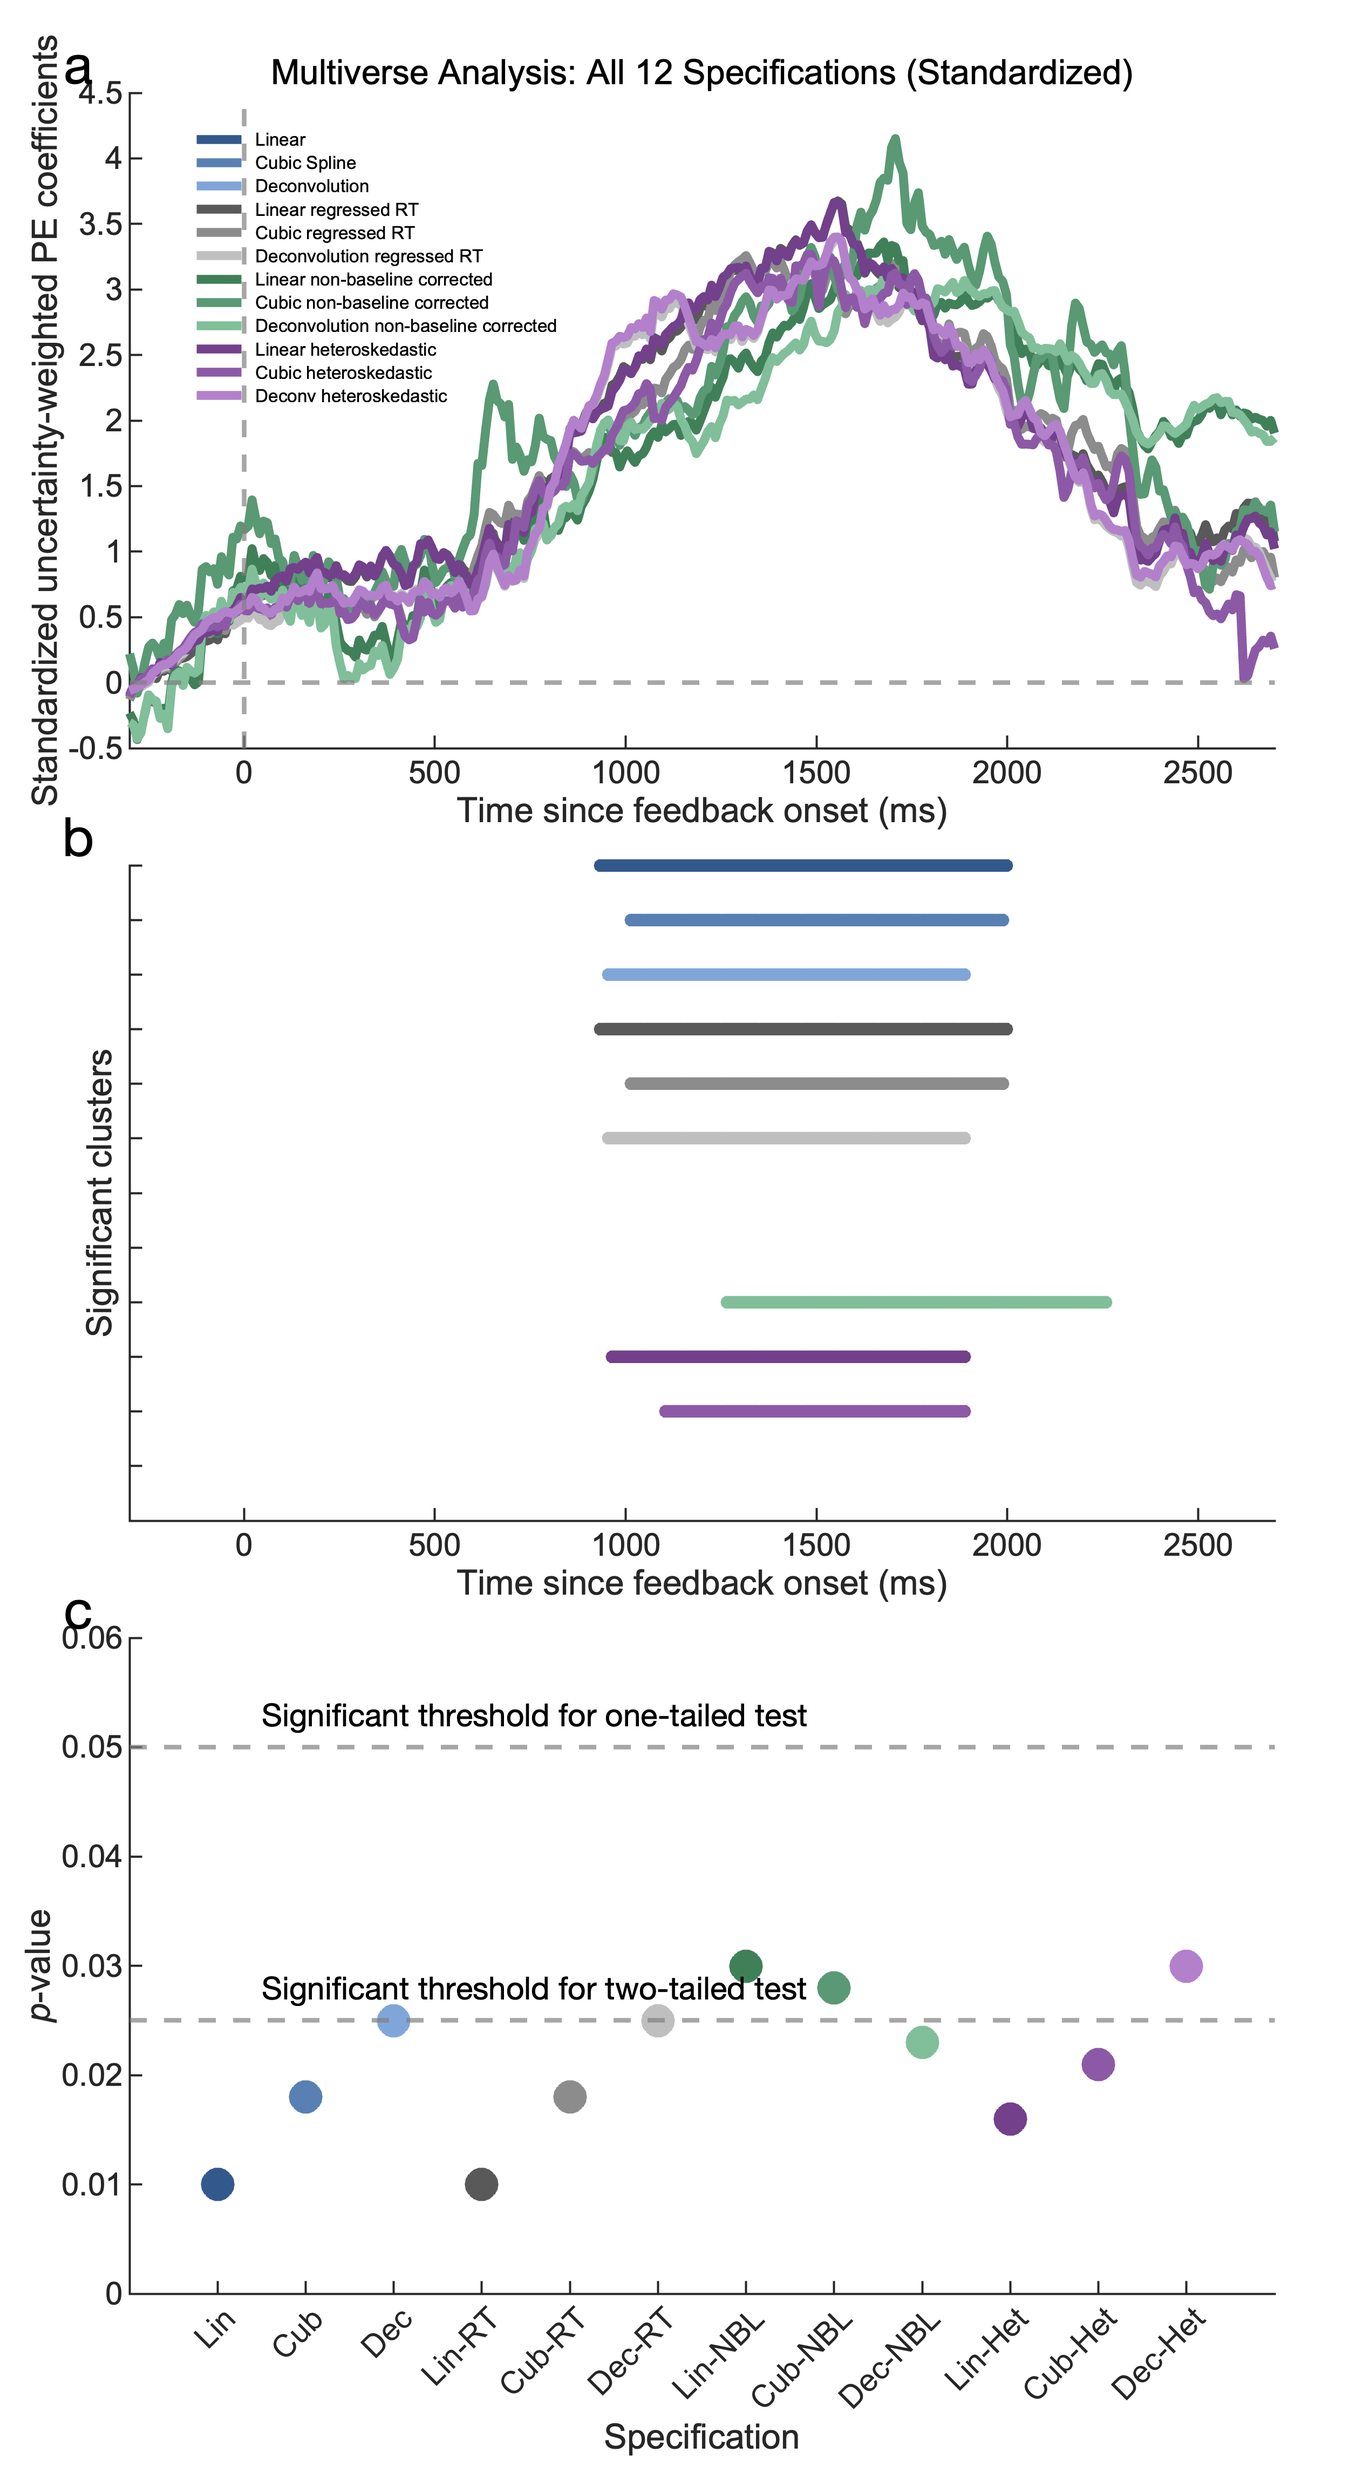
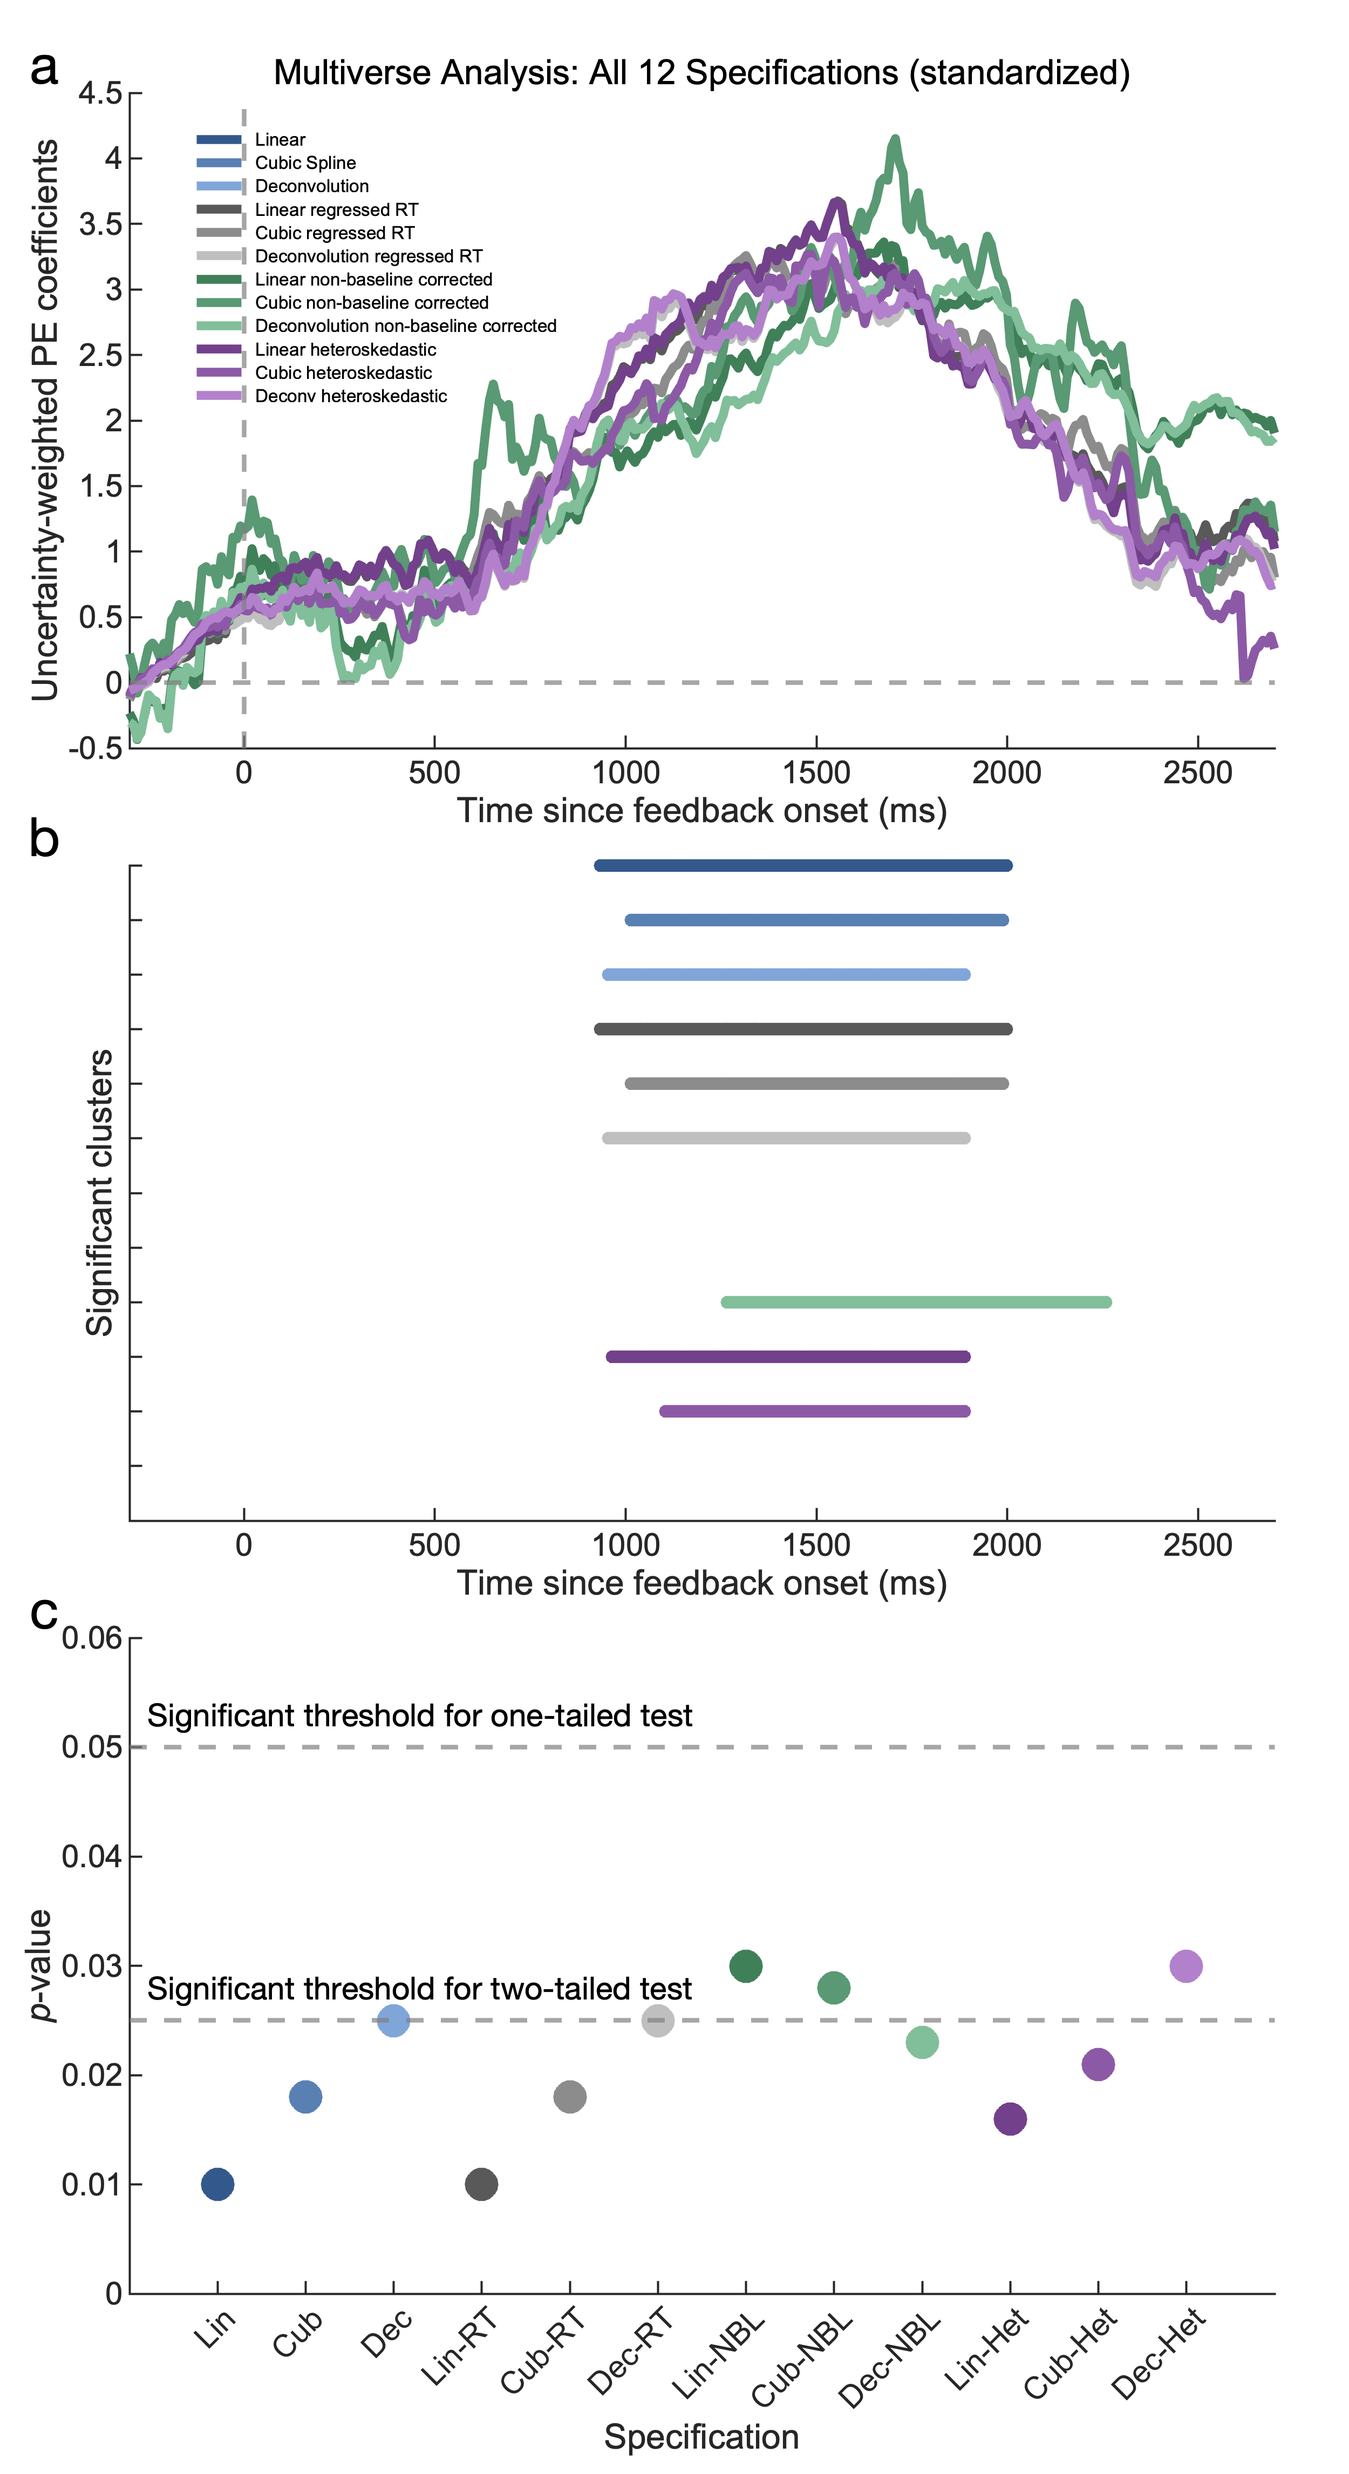
Cohens with chance level and stored all multiverse stats for checking

diff --git a/data/GB data two pipelines/pupil/stats/multiverseStats.m b/data/GB data two pipelines/pupil/stats/multiverseStats.m
@@ -1,0 +1,117 @@
+clc
+clearvars
+% USER-BASED PATH
+currentDir = cd;
+reqPath = 'Perceptual_unc_aug_task_pupil';
+pathParts = strsplit(currentDir, filesep);
+if startsWith(pathParts{end}, reqPath)
+    disp('Current directory is already the desired path. No need to run createSavePaths.');
+    desiredPath = currentDir;
+else
+    desiredPath = createSavePaths(currentDir, reqPath);
+end
+
+% Initialize results table
+results = table({}, [], 'VariableNames', {'term', 'pval'});
+
+% Save dir
+save_dir = fullfile(desiredPath,'data', 'GB data two pipelines', 'pupil', 'stats');
+
+%% figure 4 MS - main regression model
+
+perm = importdata(strcat(desiredPath, filesep, "data", filesep, "GB data two pipelines", filesep, "pupil", filesep, "regression", filesep, "main", filesep,"perm_pe_condiff_linearInt.mat"));
+betas_struct = importdata(strcat(desiredPath, filesep, "data", filesep, "GB data two pipelines", filesep, "pupil", filesep, "regression", filesep, "main", filesep,"pe_condiff_linearInt.mat"));
+coeff_names = betas_struct.coeff_names;
+pe_idx = find(strcmp(coeff_names,'pe'));
+peCondiff_idx = find(strcmp(coeff_names,'zsc_condiff:pe'));
+
+results = [results; table({'pe_main'}, round(min(perm.prob(pe_idx, perm.mask(pe_idx,:) == 1)), 3), 'VariableNames', {'term', 'pval'})];
+results = [results; table({'peCondiff_main'}, round(min(perm.prob(peCondiff_idx, perm.mask(peCondiff_idx,:) == 1)), 3), 'VariableNames', {'term', 'pval'})];
+
+% CS 
+perm = importdata(strcat(desiredPath, filesep, "data", filesep, "GB data two pipelines", filesep, "pupil", filesep, "regression", filesep, "main", filesep,"perm_pe_condiff_cubicSplineNew.mat"));
+betas_struct = importdata(strcat(desiredPath, filesep, "data", filesep, "GB data two pipelines", filesep, "pupil", filesep, "regression", filesep, "main", filesep,"pe_condiff_cubicSplineNew.mat"));
+coeff_names = betas_struct.coeff_names;
+pe_idx = find(strcmp(coeff_names,'pe'));
+peCondiff_idx = find(strcmp(coeff_names,'zsc_condiff:pe'));
+
+results = [results; table({'pe_mainCS'}, round(min(perm.prob(pe_idx, perm.mask(pe_idx,:) == 1)), 3), 'VariableNames', {'term', 'pval'})];
+results = [results; table({'peCondiff_mainCS'}, round(min(perm.prob(peCondiff_idx, perm.mask(peCondiff_idx,:) == 1)), 3), 'VariableNames', {'term', 'pval'})];
+
+% Deconv
+perm = importdata(strcat(desiredPath, filesep, "data", filesep, "GB data two pipelines", filesep, "pupil", filesep, "regression", filesep, "control analyses for revisions", filesep,"perm_pe_condiff_deconvolution_updatedClusterStat_saccCorr_uraiParams_PG.mat"));
+betas_struct = importdata(strcat(desiredPath, filesep, "data", filesep, "GB data two pipelines", filesep, "pupil", filesep, "regression", filesep, "control analyses for revisions", filesep,"pe_condiff_deconvolution_updatedClusterStat_saccCorr_uraiParams_PG.mat"));
+coeff_names = betas_struct.coeff_names;
+pe_idx = find(strcmp(coeff_names,'pe'));
+peCondiff_idx = find(strcmp(coeff_names,'zsc_condiff:pe'));
+
+results = [results; table({'pe_mainDeconv'}, round(min(perm.prob(pe_idx, perm.mask(pe_idx,:) == 1)), 3), 'VariableNames', {'term', 'pval'})];
+results = [results; table({'peCondiff_mainDeconv'}, round(min(perm.prob(peCondiff_idx, perm.mask(peCondiff_idx,:) == 1)), 3), 'VariableNames', {'term', 'pval'})];
+
+%% figure S10 MS - non-baseline corrected
+
+perm = importdata(strcat(desiredPath, filesep, "data", filesep, "GB data two pipelines", filesep, "pupil", filesep, "regression", filesep, "control analyses for revisions", filesep,"perm_pe_condiff_mathot_nonBaselineCorrected_linearInt.mat"));
+betas_struct = importdata(strcat(desiredPath, filesep, "data", filesep, "GB data two pipelines", filesep, "pupil", filesep, "regression", filesep, "control analyses for revisions", filesep,"pe_condiff_mathot_nonBaselineCorrected_linearInt.mat"));
+coeff_names = betas_struct.coeff_names;
+pe_idx = find(strcmp(coeff_names,'pe'));
+peCondiff_idx = find(strcmp(coeff_names,'zsc_condiff:pe'));
+
+results = [results; table({'pe_NBC'},       round(min(perm.prob(pe_idx,       perm.mask(pe_idx,:)       == 1)), 3), 'VariableNames', {'term', 'pval'})];
+results = [results; table({'peCondiff_NBC'}, round(min(perm.prob(peCondiff_idx, perm.prob(peCondiff_idx,:) < 0.05)), 3), 'VariableNames', {'term', 'pval'})];
+
+% CS
+perm = importdata(strcat(desiredPath, filesep, "data", filesep, "GB data two pipelines", filesep, "pupil", filesep, "regression", filesep, "control analyses for revisions", filesep,"perm_pe_condiff_mathot_nonBaselineCorrected_cubicSplineNew.mat"));
+betas_struct = importdata(strcat(desiredPath, filesep, "data", filesep, "GB data two pipelines", filesep, "pupil", filesep, "regression", filesep, "control analyses for revisions", filesep,"pe_condiff_mathot_nonBaselineCorrected_cubicSplineNew.mat"));
+coeff_names = betas_struct.coeff_names;
+pe_idx = find(strcmp(coeff_names,'pe'));
+peCondiff_idx = find(strcmp(coeff_names,'zsc_condiff:pe'));
+
+results = [results; table({'pe_NBC_CS'},       round(min(perm.prob(pe_idx,       perm.mask(pe_idx,:)       == 1)), 3), 'VariableNames', {'term', 'pval'})];
+results = [results; table({'peCondiff_NBC_CS'}, round(min(perm.prob(peCondiff_idx, perm.prob(peCondiff_idx,:) < 0.05)), 3), 'VariableNames', {'term', 'pval'})];
+
+% Deconv
+perm = importdata(strcat(desiredPath, filesep, "data", filesep, "GB data two pipelines", filesep, "pupil", filesep, "regression", filesep, "control analyses for revisions", filesep,"perm_pe_condiff_deconvolution_nonBaselineCorrected_saccCorr_uraiParamsPG.mat"));
+betas_struct = importdata(strcat(desiredPath, filesep, "data", filesep, "GB data two pipelines", filesep, "pupil", filesep, "regression", filesep, "control analyses for revisions", filesep,"pe_condiff_deconvolution_nonBaselineCorrected_saccCorr_uraiParamsPG.mat"));
+coeff_names = betas_struct.coeff_names;
+pe_idx = find(strcmp(coeff_names,'pe'));
+peCondiff_idx = find(strcmp(coeff_names,'zsc_condiff:pe'));
+
+results = [results; table({'pe_NBC_deconv'},       round(min(perm.prob(pe_idx,       perm.mask(pe_idx,:)       == 1)), 3), 'VariableNames', {'term', 'pval'})];
+results = [results; table({'peCondiff_NBC_deconv'}, round(min(perm.prob(peCondiff_idx, perm.prob(peCondiff_idx,:) < 0.05)), 3), 'VariableNames', {'term', 'pval'})];
+
+%% figure S12 MS - regressed RT
+
+betas_struct = importdata(strcat(desiredPath, filesep, "data", filesep, "GB data two pipelines", filesep, "pupil", filesep, "regression", filesep, "main", filesep,"pe_condiff_regressedRT_linearInt.mat"));
+coeff_names = betas_struct.coeff_names;
+perm = importdata(strcat(desiredPath, filesep, "data", filesep, "GB data two pipelines", filesep, "pupil", filesep, "regression", filesep, "main", filesep,"perm_pe_condiff_regressedRT_linearInt.mat"));
+pe_idx = find(strcmp(coeff_names,'pe'));
+peCondiff_idx = find(strcmp(coeff_names,'zsc_condiff:pe'));
+
+results = [results; table({'pe_regressedRT'},        round(min(perm.prob(pe_idx,       perm.mask(pe_idx,:)       == 1)), 3), 'VariableNames', {'term', 'pval'})];
+results = [results; table({'peCondiff_regressedRT'}, round(min(perm.prob(peCondiff_idx, perm.mask(peCondiff_idx,:) == 1)), 3), 'VariableNames', {'term', 'pval'})];
+
+% CS 
+betas_struct = importdata(strcat(desiredPath, filesep, "data", filesep, "GB data two pipelines", filesep, "pupil", filesep, "regression", filesep, "main", filesep,"pe_condiff_regressedRT_cubicSplineNew.mat"));
+coeff_names = betas_struct.coeff_names;
+perm = importdata(strcat(desiredPath, filesep, "data", filesep, "GB data two pipelines", filesep, "pupil", filesep, "regression", filesep, "main", filesep,"perm_pe_condiff_regressedRT_cubicSplineNew.mat"));
+pe_idx = find(strcmp(coeff_names,'pe'));
+peCondiff_idx = find(strcmp(coeff_names,'zsc_condiff:pe'));
+
+results = [results; table({'pe_regressedRT_CS'},        round(min(perm.prob(pe_idx,       perm.mask(pe_idx,:)       == 1)), 3), 'VariableNames', {'term', 'pval'})];
+results = [results; table({'peCondiff_regressedRT_CS'}, round(min(perm.prob(peCondiff_idx, perm.mask(peCondiff_idx,:) == 1)), 3), 'VariableNames', {'term', 'pval'})];
+
+% Deconv
+betas_struct = importdata(strcat(desiredPath, filesep, "data", filesep, "GB data two pipelines", filesep, "pupil", filesep, "regression", filesep, "control analyses for revisions", filesep,"pe_condiff_regressedRT_deconvolution_saccCorr_uraiParamsPG.mat"));
+coeff_names = betas_struct.coeff_names;
+perm = importdata(strcat(desiredPath, filesep, "data", filesep, "GB data two pipelines", filesep, "pupil", filesep, "regression", filesep, "control analyses for revisions", filesep,"perm_pe_condiff_regressedRT_deconvolution_saccCorr_uraiParamsPG.mat"));
+pe_idx = find(strcmp(coeff_names,'pe'));
+peCondiff_idx = find(strcmp(coeff_names,'zsc_condiff:pe'));
+
+results = [results; table({'pe_regressedRT_deconv'},        round(min(perm.prob(pe_idx,       perm.mask(pe_idx,:)       == 1)), 3), 'VariableNames', {'term', 'pval'})];
+results = [results; table({'peCondiff_regressedRT_deconv'}, round(min(perm.prob(peCondiff_idx, perm.mask(peCondiff_idx,:) == 1)), 3), 'VariableNames', {'term', 'pval'})];
+
+
+%% SAVE ALL
+
+safe_saveall(fullfile(save_dir,filesep,"allStats_multiverse.csv"),results)
+

diff --git a/Figures/supplement/figureSM12.m b/Figures/supplement/figureSM12.m
@@ -216,10 +216,10 @@ xline(0,'LineStyle','--','LineWidth',1,'Color',[0.5 0.5 0.5],'HandleVisibility',
 yline(0,'LineStyle','--','LineWidth',1,'Color',[0.5 0.5 0.5],'HandleVisibility','off');
 
 xlabel('Time since feedback onset (ms)','FontName',fontname,'FontSize',fontsize)
-ylabel('Standardized absolute PE coefficients','FontWeight','normal','FontName',fontname,'FontSize',fontsize)
+ylabel('Absolute PE coefficients','FontWeight','normal','FontName',fontname,'FontSize',fontsize)
 lgd = legend('Location','best','FontSize',4,'NumColumns',1,'Color','none','EdgeColor','none');
 lgd.ItemTokenSize = [10, 10];
-title('Multiverse Analysis: All 12 Specifications (Standardized)','FontName',fontname,'FontSize',fontsize+1,'FontWeight','normal')
+title('Multiverse Analysis: All 12 Specifications (standardized)','FontName',fontname,'FontSize',fontsize+1,'FontWeight','normal')
 adjust_figprops(ax1,fontname,fontsize,linewidth_plot);
 
 % text(0.02, 0.95, 'Solid=Std | Dashed=RT | Dotted=NoBL | Dash-dot=Hetero', ...
@@ -282,8 +282,8 @@ safe_saveall(fullfile(stats_dir, 'medianMultiversePval.csv'), medianMultiverse);
 
 yline(0.025, '--', 'Color', [0.5 0.5 0.5], 'LineWidth', 1, 'HandleVisibility', 'off');
 yline(0.05, '--', 'Color', [0.5 0.5 0.5], 'LineWidth', 1, 'HandleVisibility', 'off');
-text(1.5, 0.028, 'Significant threshold for two-tailed test', 'FontSize', 7, 'VerticalAlignment', 'middle');
-text(1.5, 0.053, 'Significant threshold for one-tailed test', 'FontSize', 7, 'VerticalAlignment', 'middle');
+text(0.2, 0.028, 'Significant threshold for two-tailed test', 'FontSize', 7, 'VerticalAlignment', 'middle');
+text(0.2, 0.053, 'Significant threshold for one-tailed test', 'FontSize', 7, 'VerticalAlignment', 'middle');
 
 ylabel("{\itp}-value",'FontName',fontname,'FontSize',fontsize)
 xlabel("Specification",'FontName',fontname,'FontSize',fontsize)
@@ -297,7 +297,7 @@ adjust_figprops(ax3,fontname,fontsize,linewidth_plot);
 %% ADD SUBPLOT LABELS
 
 ax1_pos = ax1.Position;
-adjust_x = -0.065; % adjusted x-position for subplot label
+adjust_x = -0.09; % adjusted x-position for subplot label
 adjust_y = ax1_pos(4)-0.02; % adjusted y-position for subplot label
 [label_x,label_y] = change_plotlabel(ax1,adjust_x,adjust_y);
 annotation("textbox",[label_x label_y .05 .05],'String', ...

diff --git a/Figures/supplement/figureSM13.m b/Figures/supplement/figureSM13.m
@@ -216,10 +216,10 @@ xline(0,'LineStyle','--','LineWidth',1,'Color',[0.5 0.5 0.5],'HandleVisibility',
 yline(0,'LineStyle','--','LineWidth',1,'Color',[0.5 0.5 0.5],'HandleVisibility','off');
 
 xlabel('Time since feedback onset (ms)','FontName',fontname,'FontSize',fontsize)
-ylabel('Standardized uncertainty-weighted PE coefficients','FontWeight','normal','FontName',fontname,'FontSize',fontsize)
+ylabel('Uncertainty-weighted PE coefficients','FontWeight','normal','FontName',fontname,'FontSize',fontsize)
 lgd = legend('Location','best','FontSize',4,'NumColumns',1,'Color','none','EdgeColor','none');
 lgd.ItemTokenSize = [10, 10];
-title('Multiverse Analysis: All 12 Specifications (Standardized)','FontName',fontname,'FontSize',fontsize+1,'FontWeight','normal')
+title('Multiverse Analysis: All 12 Specifications (standardized)','FontName',fontname,'FontSize',fontsize+1,'FontWeight','normal')
 adjust_figprops(ax1,fontname,fontsize,linewidth_plot);
 
 % text(0.02, 0.95, 'Solid=Std | Dashed=RT | Dotted=NoBL | Dash-dot=Hetero', ...
@@ -282,8 +282,8 @@ safe_saveall(fullfile(stats_dir, 'medianMultiversePval_peCondiff.csv'), medianMu
 
 yline(0.025, '--', 'Color', [0.5 0.5 0.5], 'LineWidth', 1, 'HandleVisibility', 'off');
 yline(0.05, '--', 'Color', [0.5 0.5 0.5], 'LineWidth', 1, 'HandleVisibility', 'off');
-text(1.5, 0.028, 'Significant threshold for two-tailed test', 'FontSize', 7, 'VerticalAlignment', 'middle');
-text(1.5, 0.053, 'Significant threshold for one-tailed test', 'FontSize', 7, 'VerticalAlignment', 'middle');
+text(0.2, 0.028, 'Significant threshold for two-tailed test', 'FontSize', 7);
+text(0.2, 0.053, 'Significant threshold for one-tailed test', 'FontSize', 7);
 
 ylabel("{\itp}-value",'FontName',fontname,'FontSize',fontsize)
 xlabel("Specification",'FontName',fontname,'FontSize',fontsize)
@@ -297,7 +297,7 @@ adjust_figprops(ax3,fontname,fontsize,linewidth_plot);
 %% ADD SUBPLOT LABELS
 
 ax1_pos = ax1.Position;
-adjust_x = -0.065; % adjusted x-position for subplot label
+adjust_x = -0.09; % adjusted x-position for subplot label
 adjust_y = ax1_pos(4)-0.02; % adjusted y-position for subplot label
 [label_x,label_y] = change_plotlabel(ax1,adjust_x,adjust_y);
 annotation("textbox",[label_x label_y .05 .05],'String', ...

diff --git a/behavior analyses/stats_behavior.m b/behavior analyses/stats_behavior.m
@@ -152,7 +152,7 @@ mu = [mix_avg,perc_avg];
 cond_names = ["mix";"perc"];
 
 for i = 1:num_condition
-    cohen_d(i,1) = compute_cohen_ttest(nanmean(mu(:,i)),0,nanstd(mu(:,i)));
+    cohen_d(i,1) = compute_cohen_ttest(nanmean(mu(:,i)),chance_level,nanstd(mu(:,i)));
 end
 
 % save output to .csv file for OVERLEAF
